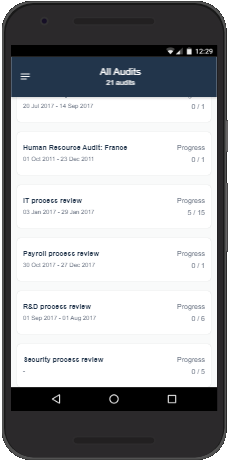
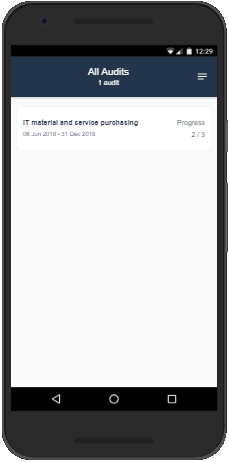
[Doc] preview

diff --git a/documentation/readme.md b/documentation/readme.md
@@ -5,47 +5,60 @@
 >[!IMPORTANT]
 >To work offline, you need to:
 >
-> - install **Audit Everywhere** on your mobile device or laptop.
-> - get all your assigned activities on the mobile device or laptop when network connection is still available.
+> - [Install Audit Everywhere](#install-audit-everywhere) on your mobile device or laptop.
+> - Get all your assigned activities on the mobile device or laptop when network connection is still available.
+> - Sign In when connection is available
 >
->**Audit Everywhere** synchronizes data with **HOPEX Internal Audit** as soon as the network connection becomes available.
+> **Audit Everywhere** synchronizes data every minute with **HOPEX Internal Audit** as soon as the network connection becomes available.
 >
->After working offline, you need to complete your activities in **HOPEX Internal Audit** to complete activity workflows.
+> After working offline with **Audit Everywhere**, you need to complete your activities in **HOPEX Internal Audit** to complete activity workflows.
 >
 
 ![Application icon](images/Favicon.png)
 
-## Login
+## Sign In
 
-With Google Chrome (for instance), browse to the **Audit Everywhere** URL. The following login page opens.
-The first time you log in, Chrome offers you to install **Audit Everywhere** on your device.
+After the [installation of Audit Everywhere](#install-audit-everywhere), open Audit Everywhere application or, with Google Chrome (for instance), browse to the **Audit Everywhere** URL. The following login page opens.
 
-![login page on a tablet](images/login-tab.png)
-![login page](images/login.png)
+![login page on a tablet](images/login-tab.png)![login page](images/login.png)
 
-Enter your **Username** and **Password** just like in **HOPEX Internal Audit**.
-then tap  **Sign In**. The [**All Audits**](#all-audits) page opens.
+Enter your **Username** and **Password** (the same as when in **HOPEX Internal Audit**)
+then tap  **Sign In**. The [All Audits](all-audits) page opens.
+
+> Please note that you need to be connected to enter in the application.
 
 ## All Audits
 
 **Audit Everywhere** displays the list of audits in which you have some activities to perform.
-It shows the name of the audit, its timeframe and the number of completed activities among all existing activities.
-Tap one of the audits to view the [**Audit Details**](#audit-details).
+It shows the name of the audit, its time frame and the number of completed activities among all existing activities. On the top of the application **Offline** appears when the connection is to slow or disabled.
+Tap one of the audits to view the [Audit Details](#audit-details).
 
-![All audits](images/all-audits.png)
+![All audits](images/all-audits.png)![All audits](images/offline-all-audits.png)
+
+## Menu
+
+![menu](images/menu.png)![menu offline](images/offline-menu.png)
+
+Tap on the **menu icon** on the top right conner makes appear the menu pan. It shows information about the sign in user, application version and the connection status: Online or Offline.
+On this menu pan you can:
+
+- Return on the [All Audits](#all-audits) page from every page of the application.
+- **Sign Out** and return to the [Sign In](#sign-in) page.
 
 ## Audit Details
 
 **Audit Everywhere** displays a list of themes under the name of the audit. A theme is a grouping of activities. Activities that are not part of a theme are displayed under **No Theme**.
 
-Each **Theme** displays the number of incomplete activities. Completed activities are followed by a check mark.
-Tap an activity to display the [**Activity page**](#activity-page).
+Each **Theme** displays the number of incomplete activities. Completed activities are followed by a check mark. Tap an activity to display the [**Activity page**](#activity-page).
 
-![Audit Details](images/audit-details.png)
+![Audit Details](images/audit-details.png)![Audit Details offline](images/offline-audit-details.png)
 
 ## Activity page
 
-The activity page consists of two tabs under the name of the activity. It shows the [activity Details](#details-tab) and the list of [Findings](#findings-tab) of the activity.
+The activity page consists of two tabs under the name of the activity:
+
+- The [activity Details](#details-tab)
+- The list of the activity [Findings](#findings-tab).
 
 ![activity details](images/activity-details.png)![activity findings](images/activity-findings.png)
 
@@ -54,42 +67,44 @@ The activity page consists of two tabs under the name of the activity. It shows 
 The Details tab displays the activity start and end date. You can fill in the amount of time spent on the activity. It also displays the description of the activity.
 
 > [!IMPORTANT]
->The **Complete activity** button changes only the local status of the activity. This is the only information which is not synchronized with **HOPEX internal Audit**.
+>The **Complete activity** button changes only the local status of the activity. This is the only information which is not synchronized with **HOPEX internal Audit**. The auditor has to complete all its activities in **HOPEX Internal Audit**. The completed activities are not updatable in the application.
 >
->The auditor has to complete all its activities in **HOPEX Internal Audit**.
 
 ### Findings tab
 
 It displays the list of exiting findings with their name, part of their description and the number of associated recommendations. From this tab you can:
 
-- [add a new finding](#create-a-new-finding),
-- [edit an existing finding](#edit-finding),
-- [delete one or more findings.](#delete-finding)
+- [add a new finding](#creating-a-finding),
+- [edit an existing finding](#editing-a-finding),
+- [delete one or more findings.](#deleting-a-finding)
 
-### Creating a finding
+#### Creating a finding
 
 ![new findings](images/new-finding.png)
 
-In the Findings tab, enter the finding name then tap the **plus (+)** sign. The [**Finding page**](#finding-page) with the name entered appears.
+In the Findings tab, enter the finding name then tap the **plus (+)** sign. The [finding page](#finding-page) with the name entered appears.
 Alternatively, tap the **plus (+)** sign directly.
 
 #### Editing a finding
 
-Tap a finding to display the [**Finding**](#finding) page.
+Tap a finding to display the [finding page](#finding-page).
 
 #### Deleting a finding
 
 ![delete findings](images/delete-findings.png)
 
-Press and hold one or several findings on your mobile device, or select checkboxes on a laptop. Tap the **trash bin** to delete the selected finding and confirm.
+Press and hold one or several findings on your mobile device, or select checkboxes on a laptop.
+
+- Tap the **arrow** to cancel the action.
+- Tap the **trash bin** to delete the selected finding and confirm.
 
 ## Finding page
 
 The Finding page enables you to edit the finding details:
 
-- name (mandatory)
-- impact of the finding
-- description of the finding
+- Name (mandatory)
+- Impact of the finding (Very Low, Low, Medium, High,Very High)
+- Description of the finding
 
 ![finding](images/finding.png)
 
@@ -107,35 +122,121 @@ It displays the list of recommendations you can make on the finding, with their 
 
 Tap the **Save** button to store/synchronize your modifications.
 
-### Recommendations
+## Evidence
 
-#### Creating a recommendation
+### Creating evidence
+
+![new evidence](images/evidence-new.png)
+
+ and the autOn top of the list of attachments, tap the **Add evidence** button. its make appears according to your device the possibility to:
+
+- use the Camera of the device to take a photo.
+- use the Camcorder of the device to take a video.
+- use the Recorder of the device to capture an audio stream.
+- browse for any file of the device.
+
+![new evidence](images/evidence-action.png)
+
+To allow the use of Camera, Camcorder, Recorder and  browse for any file. Check the **APP Permission** of your browser in your device: Camera, Microphone, Storage.
+
+The evidence is uploaded when the arrow in the cloud become a check mark.
+
+### Viewing evidence
+
+Tap an evidence to download it. It works Online only.
+
+### Deleting evidence
+
+![delete evidence](images/evidence-delete.png)
+
+Press and hold one or several evidences on your mobile device, or select checkboxes on a laptop. The trash bin bar appears.
+
+- Tap the **arrow** to cancel the action.
+- Tap the **Trash bin** to delete the selected evidence.
+
+## Recommendations
+
+### Creating a recommendation
 
 ![new recommendation](images/new-recommendation.png)
 
-On top of the list of recommendations, enter the name of the new recommendation then tap the **plus (+)** sign, or directly tap the **plus (+)** sign. The recommendation popup [**recommendation popup**](#recommendation-popup) appears with the name entered.
+On top of the list of recommendations, enter the name of the new recommendation then tap the **plus (+)** sign, or directly tap the **plus (+)** sign. The recommendation popup [recommendation popup](#recommendation-popup) appears with the name entered.
 
-#### Editing a recommendation
+### Editing a recommendation
 
-Tap a recommendation to open the [**recommendation popup**](#recommendation-popup)
+Tap a recommendation to open the [recommendation popup](#recommendation-popup)
 
-#### Deleting recommendations
+### Deleting recommendations
 
-Press and hold one or several recommendations on your mobile device, or select checkboxes on a laptop. The trash bin bar appears. Tap the **Trash bin** to delete the selected recommendation.
+Press and hold one or several recommendations on your mobile device, or select checkboxes on a laptop. The trash bin bar appears.
+
+- Tap the **arrow** to cancel the action.
+- Tap the **Trash bin** to delete the selected recommendation.
 
 ### Recommendation popup
 
 The **recommendation popup** enables you to enter the name, which is mandatory, as well as the details of the recommendation.
 
 - Tap the **Save** button to store/synchronize your modifications and close the popup window.
-- Tap the **X** to close the popup window. This cancels all modifications
+- Tap the **X** at the top right angle to close the popup window. This cancels all modifications
 
 ![edit recommendation](images/recommendation-edit.png)
 
-### Evidence
+## Install Audit Everywhere
 
-#### Creating evidence
+[Installation compatibility chart](https://caniuse.com/#feat=serviceworkers)
 
-#### Viewing evidence
+### Safari on IOS
 
-#### Deleting evidence
+To put **Audit everywhere** shortcut on your Home screen, do the following:
+
+1. Browse to **Audit everywhere**  URL  in Safari
+1. Tap the **Share button** in Safari for Audit everywhere.
+1. Tap the icon labeled **Add to Home Screen**.
+1. Tap Add in the upper-right corner.
+1. Now name Audit everywhere so that it’s distinguishable from its native counterpart on the Home screen and in Search
+1. Tap Add in the upper-right corner.
+
+### Samsung Internet
+
+![install on android](images/install-samsung-internet.png)
+
+1. Browse to **Audit everywhere** URL in Samsung Internet
+1. Then :
+   - On the the address bar
+      - Tap on the **download sign** ![install on android](images/install-samsung.png)
+   - Or on the Samsung Internet menu
+     1. Tap on **+ Add page to**
+     1. Select **Apps Screen** on the popup window
+  
+1. Confirm your choice in the popup window by selecting **Install**
+
+### Chrome on Android
+
+![install on android](images/install-chrome-android.png)
+
+1. Browse to **Audit everywhere** URL in chrome.
+1. Then:
+
+   - Tap on the message
+     - **Add Audit Everywhere to to Home screen**![install on android](images/install-chrome.png)
+   - or select in chrome menu
+     - **Add to to Home screen** in chrome menu
+1. Confirm your choice in the popup window by selecting **Add**.  
+
+## Reset cache
+
+### Reset cache in chrome
+
+1. Select **Settings** in chrome menu.
+1. Under Select **Site Settings** under advanced section.
+1. Select Storage
+1. Select the storage corresponding to audit everywhere web site.
+1. Tap on **Clear & Reset**
+
+### Reset cache in Samsung Internet
+
+1. Select **Settings** in the menu.
+1. Tap on **Sites and Download**
+1. Tap on **Manage website data**
+1. Tap on **Delete**

diff --git a/documentation/deployment.md b/documentation/deployment.md
@@ -7,7 +7,7 @@ to deploy and use Audit everywhere
 - HOPEX V3 CP3 minimum
 - Install **HOPEX Graphql**. You can download it from [HOPEX store](https://community.mega.com/t5/HOPEX-Store/GraphQL-REST-API/td-p/21381).
 - **HTTPS** is mandatory since **Audit everywhere** is a [PWA](https://developers.google.com/web/ilt/pwa/introduction-to-progressive-web-app-architectures).
-- Browser minimum version [please check](https://caniuse.com/#search=Service%20Workers)
+- Browser minimum version [please check](https://caniuse.com/#feat=serviceworkers)
 
 ## Deploy on IIS  
 
@@ -48,7 +48,7 @@ check the `web.config`
 </configuration>
 ```
 
-[!code-xml[web.config](../public/web.config)]
+[!code-xml[web.config](..\public\web.config)]
 
 ## Configuration file
 
@@ -57,24 +57,35 @@ create the application configuration file **config.json**. Copy `C:\inetpub\wwwr
 - Set **ROOT_API** to the root url of HOPEX no leading HOPEX no leading /.
 - **environmentId** is the absolute identifier of the production environment you can get it form the megasite.ini and convert it.
 - **repositoryId** is the absolute identifier of the repository you can get it form the megaenv.ini and convert it.
-- **profileId** is the absolute identifier of the profile the default value is the absolute identifier of the profile **Auditor**
+- **profileId** is the absolute identifier of the profile the default value is the absolute identifier of the profile **Auditor**.
 - Set the **client_secret** according HOPEX configuration.
+- **validatedStatus** define the status where an activity is read only.
+if you change the list, do not forget to add **localyvalidated** status given by the application when tap on complete activity.
+- The **connectivity url** can be set to `https://ROOT_API/audit-everywhere/img/px.gif` to avoid cross-site warning.
 
  ```json
 {
   "ROOT_API": "",                                      "Comment of ROOT_API":     " root url of HOPEX no leading HOPEX no leading /",
   "API_timeout": 6000,                                 "Comment of API_timeout":  " Limit of time in ms, where the application switches to offline mode 0 will ignore",
+  "ASYNC_timeout": 6000,                               "Comment of API_timeout":  " Limit of time in ms, where the API waits to give a response or a job ID",
   "environmentId": "",                                 "Comment of environmentId":" Absolute identifier of the environment see megasite.ini and convert it",
   "repositoryId": "",                                  "Comment of repositoryId": " Absolute identifier of the repository  see megaenv.ini and convert it",
   "profileId": "tWisjijuFnES",                         "Comment of profileId":    " Absolute identifier of the Auditor profile",
-  "grant_type": "password",                            "Comment of grant_type":   " Authentication parameter",
-  "scope": "hopex offline_access openid read write",   "Comment of scope":        " Authentication scope",
   "client_id": "hopexapi",                             "Comment of client_id":    " Authentication Client Id",
   "client_secret": "secret",                           "Comment of client_secret":" Authentication Client secret Set the secret of hopexapi check HOPEX configuration",
   "title": "Audit Everywhere",
-  "validatedStatus": "tobevalidated|validated|closed", "Comment of validatedStatus":" Values to be separated by the '|' character",
-  "unvalidatedStatus": "",                             "Comment of unvalidatedStatus":" Values to be separated by the '|' character",
+  "validatedStatus": "tobevalidated|validated|closed|localyvalidated", "Comment of validatedStatus":" Values to be separated by the '|' character, localyvalidated manage the local completion",
+  "unvalidatedStatus": "created|tobereviewed",         "Comment of unvalidatedStatus":" Values to be separated by the '|' character",
+  "documentCategory": "g4InWZSRGDBB",                  "Comment of documentCategory":  "IdAbs of document Category: audit evidences",
+  "documentPattern": "KoQoM0jRGLZH",                   "Comment of DocumentPattern":   "IdAbs of document Pattern: audit evidences",
   "impacts": [ "VeryLow","Low", "Medium", "High", "VeryHigh" ],
+  "cascadeOnDelete": true,                             "Comment of cascadeOnDelete": "Either delete operation should work in cascade or not",
+  "connectivity": {
+    "url": "https://www.google.com/images/phd/px.gif", "Comment of url":         "URL to ping in order to determine the network connectivity",
+    "timeToCount": "3",                                "Comment of timeToCount": "The number of time we repeat the operation",
+    "threshold": "3000",                               "Comment of threshold":   "The threshold at which we decide to be offline",
+    "interval": "20000",                               "Comment of interval":    "The time between each repetition"
+  },
   "toast": {
     "actionTextColor": "black",
     "errorColor": "#EE2665",
@@ -87,4 +98,4 @@ create the application configuration file **config.json**. Copy `C:\inetpub\wwwr
 
 ## User guide
 
-[Audit Everywhere quick start guide](documentation/readme.md)
+[Audit Everywhere quick start guide](README.md)

diff --git a/documentation/configure-build-deploy.md b/documentation/configure-build-deploy.md
@@ -24,22 +24,33 @@ To configure the application in the `public/config` copy the `config.json.exampl
 - **repositoryId** is the absolute identifier of the repository you can get it form the megaenv.ini and convert it.
 - **profileId** is the absolute identifier of the profile the default value is the absolute identifier of the profile **Auditor**.
 - Set the **client_secret** according HOPEX configuration.
+- **validatedStatus** define the status where an activity is read only.
+if you change the list, do not forget to add **localyvalidated** status given by the application when tap on complete activity.
+- The **connectivity url** can be set to `https://ROOT_API/audit-everywhere/img/px.gif` to avoid cross-site warning
 
  ```json
 {
   "ROOT_API": "",                                      "Comment of ROOT_API":     " root url of HOPEX no leading HOPEX no leading /",
   "API_timeout": 6000,                                 "Comment of API_timeout":  " Limit of time in ms, where the application switches to offline mode 0 will ignore",
+  "ASYNC_timeout": 6000,                               "Comment of API_timeout":  " Limit of time in ms, where the API waits to give a response or a job ID",
   "environmentId": "",                                 "Comment of environmentId":" Absolute identifier of the environment see megasite.ini and convert it",
   "repositoryId": "",                                  "Comment of repositoryId": " Absolute identifier of the repository  see megaenv.ini and convert it",
   "profileId": "tWisjijuFnES",                         "Comment of profileId":    " Absolute identifier of the Auditor profile",
-  "grant_type": "password",                            "Comment of grant_type":   " Authentication parameter",
-  "scope": "hopex offline_access openid read write",   "Comment of scope":        " Authentication scope",
   "client_id": "hopexapi",                             "Comment of client_id":    " Authentication Client Id",
   "client_secret": "secret",                           "Comment of client_secret":" Authentication Client secret Set the secret of hopexapi check HOPEX configuration",
   "title": "Audit Everywhere",
-  "validatedStatus": "tobevalidated|validated|closed", "Comment of validatedStatus":" Values to be separated by the '|' character",
-  "unvalidatedStatus": "",                             "Comment of unvalidatedStatus":" Values to be separated by the '|' character",
+  "validatedStatus": "tobevalidated|validated|closed|localyvalidated", "Comment of validatedStatus":" Values to be separated by the '|' character, localyvalidated manage the local completion",
+  "unvalidatedStatus": "created|tobereviewed",         "Comment of unvalidatedStatus":" Values to be separated by the '|' character",
+  "documentCategory": "g4InWZSRGDBB",                  "Comment of documentCategory":  "IdAbs of document Category: audit evidences",
+  "documentPattern": "KoQoM0jRGLZH",                   "Comment of DocumentPattern":   "IdAbs of document Pattern: audit evidences",
   "impacts": [ "VeryLow","Low", "Medium", "High", "VeryHigh" ],
+  "cascadeOnDelete": true,                             "Comment of cascadeOnDelete": "Either delete operation should work in cascade or not",
+  "connectivity": {
+    "url": "https://www.google.com/images/phd/px.gif", "Comment of url":         "URL to ping in order to determine the network connectivity",
+    "timeToCount": "3",                                "Comment of timeToCount": "The number of time we repeat the operation",
+    "threshold": "3000",                               "Comment of threshold":   "The threshold at which we decide to be offline",
+    "interval": "20000",                               "Comment of interval":    "The time between each repetition"
+  },
   "toast": {
     "actionTextColor": "black",
     "errorColor": "#EE2665",

diff --git a/README.md b/README.md
@@ -12,6 +12,7 @@ To work offline, you need to install **Audit Everywhere** on your mobile device 
 ![Login](documentation/images/login-tab.png)
 ![Login](documentation/images/login.png)
 ![All audits](documentation/images/all-audits.png)
+![Menu](documentation/images/menu.png)
 ![Audit details](documentation/images/audit-details.png)
 ![Activity details](documentation/images/activity-details.png)
 ![Activity findings](documentation/images/activity-findings.png)
@@ -20,5 +21,3 @@ To work offline, you need to install **Audit Everywhere** on your mobile device 
 ![New Recommendation](documentation/images/recommendation-new.png)
 ![Recommendation](documentation/images/recommendation-edit.png)
 ![Activity details](documentation/images/activity-details-tab.png)
-
-[![Build Status](https://megainternational.visualstudio.com/HOPEX%20Audit%20Mission/_apis/build/status/HOPEX%20Audit%20Mission?branchName=master)](https://megainternational.visualstudio.com/HOPEX%20Audit%20Mission/_build/latest?definitionId=147&branchName=master)
